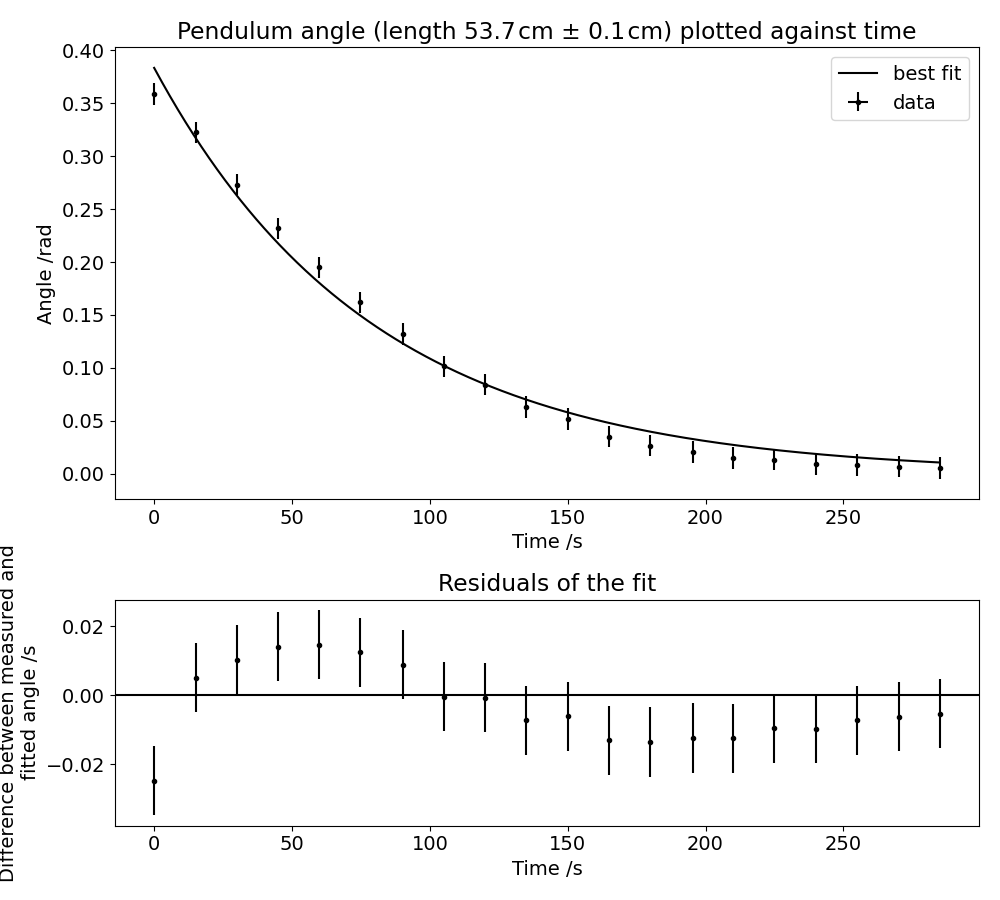
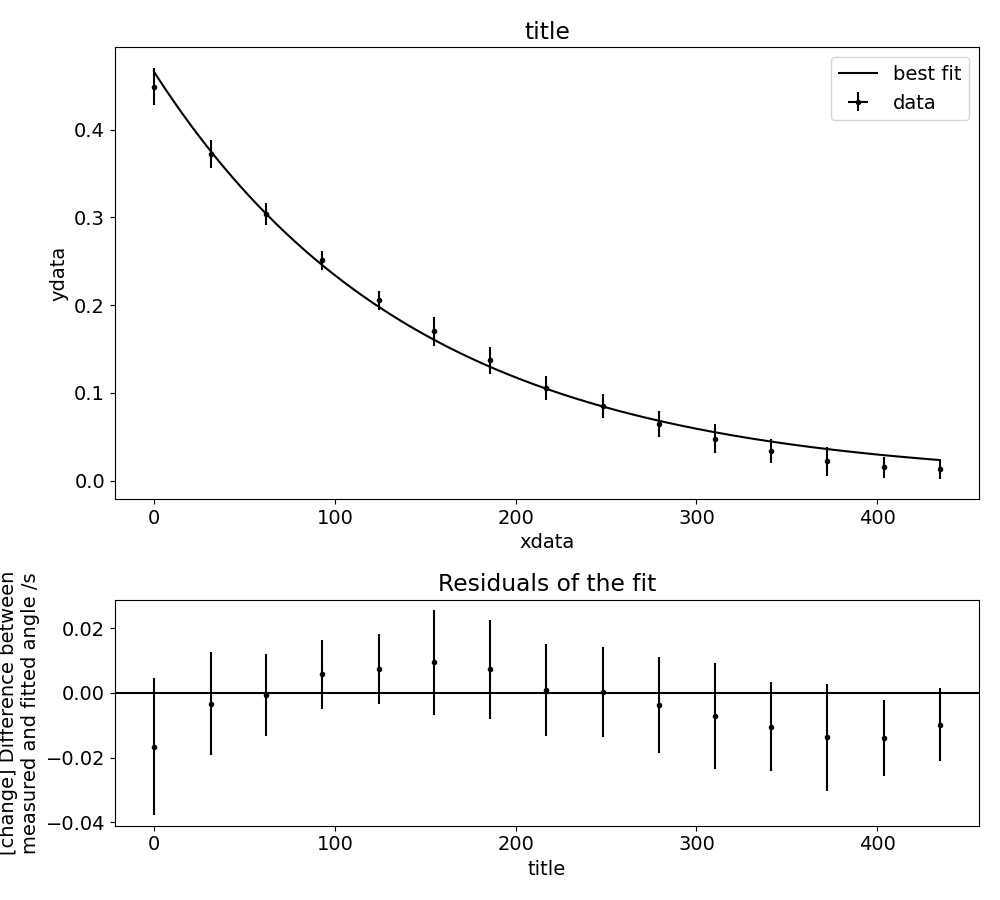
tracked len 1 and 3, started 5

diff --git a/plotting/qfactor_generation.py b/plotting/qfactor_generation.py
@@ -1,0 +1,100 @@
+import scipy.optimize as optimize
+import numpy as np
+import matplotlib.pyplot as plt
+from pylab import loadtxt
+
+
+def damped_sinusoid(t, a, tau, T, phi):
+    return a*np.exp(-t/tau)*np.cos(2*np.pi*t/T+phi)
+
+
+def exponential(t, a, tau):
+    return a*np.exp(-t/tau)
+
+
+def linear(t, m, b):
+    return m*t+b
+
+
+def quadratic(t, a, b, c):
+    return a*t*2 + b*t + c
+
+
+def powerlaw(t, a, b):
+    return a*t**b
+
+
+qfactor_txt_idx = 3  # CHANGE REQUIRED
+init_tau = 70  # CHANGE REQUIRED?
+
+filename=f"qfactor_txt_files\\len{qfactor_txt_idx}.txt"
+# filename="max_amplitude_vs_time.txt"
+
+# Periods array, each index corresponds to txt file
+periods = [-1, 0.686666667, None, 0.92667, None, None, None,None, None, None]
+T = periods[qfactor_txt_idx]
+
+print("Approximate length:", (T/(2*np.pi))**2 * 9.81)
+
+
+def main():
+    my_func = exponential
+
+    plt.rcParams.update({'font.size': 14})
+    plt.rcParams['figure.figsize'] = 10, 9
+
+    data=loadtxt(filename, usecols=(0,1,2,3), skiprows=1, unpack=True)
+
+    xdata = data[0]
+    ydata = data[1]
+    xerror = data[2]
+    yerror = data[3]
+
+    # [CHANGE REQUIRED] for 2nd value?
+    init_guess = (ydata[0], init_tau)
+
+    popt, pcov = optimize.curve_fit(my_func, xdata, ydata, sigma=yerror, p0=init_guess)
+
+    a=popt[0]
+    tau=popt[1]
+    u_a=pcov[0,0]**(0.5)
+    u_tau=pcov[1,1]**(0.5)
+
+    start = min(xdata)
+    stop = max(xdata)
+    xs = np.arange(start,stop,(stop-start)/1000)
+    curve = my_func(xs, *popt)
+
+    fig, (ax1,ax2) = plt.subplots(2, 1, gridspec_kw={'height_ratios': [2, 1]})
+
+    ax1.errorbar(xdata, ydata, yerr=yerror, xerr=xerror, fmt=".", label="data", color="black")
+    ax1.plot(xs, curve, label="best fit", color="black")
+    ax1.legend(loc='upper right')
+    ax1.set_xlabel("xdata")
+    ax1.set_ylabel("ydata")
+    ax1.set_title("title")
+
+    #ax1.set_xscale('log')
+    #ax1.set_yscale('log')
+
+    print("A:", a, "+/-", u_a)
+    print("tau:", tau, "+/-", u_tau)
+    per_u_a = u_a/a
+    per_u_tau = u_tau/tau
+    Q = np.pi*tau/T
+    print("Q factor:", Q, "+/-", max(per_u_a, per_u_tau)*Q)
+
+    residual = ydata - my_func(xdata, *popt)
+    ax2.errorbar(xdata, residual, yerr=yerror, xerr=xerror, fmt=".", color="black")
+    ax2.axhline(y=0, color="black")
+    ax2.set_xlabel("title")
+    ax2.set_ylabel("[change] Difference between measured and fitted angle /s", wrap=True)
+    ax2.set_title("Residuals of the fit")
+
+    fig.tight_layout()
+    plt.show()
+    fig.savefig("graph.png")
+
+    return None
+
+main()
